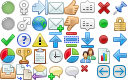
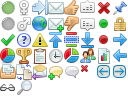
! A little rejig and we can show from the message index what topics are being watched - and also begin to introduce this terminology properly.

diff --git a/Themes/default/css/index.css b/Themes/default/css/index.css
@@ -3101,6 +3101,12 @@ tr.windowbg td, tr.windowbg2 td, tr.highlight2 td {
 .generic_icons.split_sel {
 	background-position: -112px -64px;
 }
+.generic_icons.watch {
+	background-position: 0px -80px;
+}
+.generic_icons.filter {
+	background-position: -16px -80px;
+}
 
 /* Styles for (fatal) errors.
 ------------------------------------------------- */

diff --git a/Sources/MessageIndex.php b/Sources/MessageIndex.php
@@ -45,6 +45,18 @@ function MessageIndex()
 	else
 		loadTemplate('MessageIndex');
 
+	if (!$user_info['is_guest'])
+	{
+		// We can't know they read it if we allow prefetches.
+		// But we'll actually mark it read later after we've done everything else.
+		if (isset($_SERVER['HTTP_X_MOZ']) && $_SERVER['HTTP_X_MOZ'] == 'prefetch')
+		{
+			ob_end_clean();
+			header('HTTP/1.1 403 Prefetch Forbidden');
+			die;
+		}
+	}
+
 	$context['name'] = $board_info['name'];
 	$context['description'] = $board_info['description'];
 	if (!empty($board_info['description']))
@@ -138,82 +150,6 @@ function MessageIndex()
 	{
 	 	$context['linktree'][count($context['linktree']) - 1]['extra_after'] = '<span class="board_moderators">(' . (count($context['link_moderators']) == 1 ? $txt['moderator'] : $txt['moderators']) . ': ' . implode(', ', $context['link_moderators']) . ')</span>';
 	}
-
-	// Mark current and parent boards as seen.
-	if (!$user_info['is_guest'])
-	{
-		// We can't know they read it if we allow prefetches.
-		if (isset($_SERVER['HTTP_X_MOZ']) && $_SERVER['HTTP_X_MOZ'] == 'prefetch')
-		{
-			ob_end_clean();
-			header('HTTP/1.1 403 Prefetch Forbidden');
-			die;
-		}
-
-		$smcFunc['db_insert']('replace',
-			'{db_prefix}log_boards',
-			array('id_msg' => 'int', 'id_member' => 'int', 'id_board' => 'int'),
-			array($modSettings['maxMsgID'], $user_info['id'], $board),
-			array('id_member', 'id_board')
-		);
-
-		if (!empty($board_info['parent_boards']))
-		{
-			$smcFunc['db_query']('', '
-				UPDATE {db_prefix}log_boards
-				SET id_msg = {int:id_msg}
-				WHERE id_member = {int:current_member}
-					AND id_board IN ({array_int:board_list})',
-				array(
-					'current_member' => $user_info['id'],
-					'board_list' => array_keys($board_info['parent_boards']),
-					'id_msg' => $modSettings['maxMsgID'],
-				)
-			);
-
-			// We've seen all these boards now!
-			foreach ($board_info['parent_boards'] as $k => $dummy)
-				if (isset($_SESSION['topicseen_cache'][$k]))
-					unset($_SESSION['topicseen_cache'][$k]);
-		}
-
-		if (isset($_SESSION['topicseen_cache'][$board]))
-			unset($_SESSION['topicseen_cache'][$board]);
-
-		$request = $smcFunc['db_query']('', '
-			SELECT sent
-			FROM {db_prefix}log_notify
-			WHERE id_board = {int:current_board}
-				AND id_member = {int:current_member}
-			LIMIT 1',
-			array(
-				'current_board' => $board,
-				'current_member' => $user_info['id'],
-			)
-		);
-		$context['is_marked_notify'] = $smcFunc['db_num_rows']($request) != 0;
-		if ($context['is_marked_notify'])
-		{
-			list ($sent) = $smcFunc['db_fetch_row']($request);
-			if (!empty($sent))
-			{
-				$smcFunc['db_query']('', '
-					UPDATE {db_prefix}log_notify
-					SET sent = {int:is_sent}
-					WHERE id_board = {int:current_board}
-						AND id_member = {int:current_member}',
-					array(
-						'current_board' => $board,
-						'current_member' => $user_info['id'],
-						'is_sent' => 0,
-					)
-				);
-			}
-		}
-		$smcFunc['db_free_result']($request);
-	}
-	else
-		$context['is_marked_notify'] = false;
 
 	// 'Print' the header and board info.
 	$context['page_title'] = strip_tags($board_info['name']);
@@ -549,6 +485,7 @@ function MessageIndex()
 				'is_redirect' => !empty($row['id_redirect_topic']),
 				'is_poll' => $modSettings['pollMode'] == '1' && $row['id_poll'] > 0,
 				'is_posted_in' => false,
+				'is_watched' => false,
 				'icon' => $row['first_icon'],
 				'icon_url' => $settings[$context['icon_sources'][$row['first_icon']]] . '/post/' . $row['first_icon'] . '.png',
 				'subject' => $row['first_subject'],
@@ -658,6 +595,82 @@ function MessageIndex()
 		call_integration_hook('integrate_quick_mod_actions');
 	}
 
+	// Mark current and parent boards as seen.
+	if (!$user_info['is_guest'])
+	{
+		$smcFunc['db_insert']('replace',
+			'{db_prefix}log_boards',
+			array('id_msg' => 'int', 'id_member' => 'int', 'id_board' => 'int'),
+			array($modSettings['maxMsgID'], $user_info['id'], $board),
+			array('id_member', 'id_board')
+		);
+
+		if (!empty($board_info['parent_boards']))
+		{
+			$smcFunc['db_query']('', '
+				UPDATE {db_prefix}log_boards
+				SET id_msg = {int:id_msg}
+				WHERE id_member = {int:current_member}
+					AND id_board IN ({array_int:board_list})',
+				array(
+					'current_member' => $user_info['id'],
+					'board_list' => array_keys($board_info['parent_boards']),
+					'id_msg' => $modSettings['maxMsgID'],
+				)
+			);
+
+			// We've seen all these boards now!
+			foreach ($board_info['parent_boards'] as $k => $dummy)
+				if (isset($_SESSION['topicseen_cache'][$k]))
+					unset($_SESSION['topicseen_cache'][$k]);
+		}
+
+		if (isset($_SESSION['topicseen_cache'][$board]))
+			unset($_SESSION['topicseen_cache'][$board]);
+
+		$request = $smcFunc['db_query']('', '
+			SELECT id_topic, id_board, sent
+			FROM {db_prefix}log_notify
+			WHERE id_member = {int:current_member}
+				AND (' . (!empty($context['topics']) ? 'id_topic IN ({array_int:topics}) OR ' : '') . 'id_board = {int:current_board})',
+			array(
+				'current_board' => $board,
+				'topics' => !empty($context['topics']) ? array_keys($context['topics']) : array(),
+				'current_member' => $user_info['id'],
+			)
+		);
+		$context['is_marked_notify'] = false; // this is for the *board* only
+		$notify = array();
+		while ($row = $smcFunc['db_fetch_assoc']($request))
+		{
+			if (!empty($row['id_board']))
+			{
+				$context['is_marked_notify'] = true;
+				$board_sent = $row['sent'];
+			}
+			if (!empty($row['id_topic']))
+				$context['topics'][$row['id_topic']]['is_watched'] = true;
+		}
+		$smcFunc['db_free_result']($request);
+
+		if ($context['is_marked_notify'] && !empty($board_sent))
+		{
+			$smcFunc['db_query']('', '
+				UPDATE {db_prefix}log_notify
+				SET sent = {int:is_sent}
+				WHERE id_member = {int:current_member}
+					AND id_board = {int:current_board}',
+				array(
+					'current_board' => $board,
+					'current_member' => $user_info['id'],
+					'is_sent' => 0,
+				)
+			);
+		}
+	}
+	else
+		$context['is_marked_notify'] = false;
+
 	// If there are children, but no topics and no ability to post topics...
 	$context['no_topic_listing'] = !empty($context['boards']) && empty($context['topics']) && !$context['can_post_new'];
 
@@ -665,7 +678,7 @@ function MessageIndex()
 	$context['normal_buttons'] = array(
 		'new_topic' => array('test' => 'can_post_new', 'text' => 'new_topic', 'image' => 'new_topic.png', 'lang' => true, 'url' => $scripturl . '?action=post;board=' . $context['current_board'] . '.0', 'active' => true),
 		'post_poll' => array('test' => 'can_post_poll', 'text' => 'new_poll', 'image' => 'new_poll.png', 'lang' => true, 'url' => $scripturl . '?action=post;board=' . $context['current_board'] . '.0;poll'),
-		'notify' => array('test' => 'can_mark_notify', 'text' => $context['is_marked_notify'] ? 'unnotify' : 'notify', 'image' => ($context['is_marked_notify'] ? 'un' : ''). 'notify.png', 'lang' => true, 'custom' => 'onclick="return confirm(\'' . ($context['is_marked_notify'] ? $txt['notification_disable_board'] : $txt['notification_enable_board']) . '\');"', 'url' => $scripturl . '?action=notifyboard;sa=' . ($context['is_marked_notify'] ? 'off' : 'on') . ';board=' . $context['current_board'] . '.' . $context['start'] . ';' . $context['session_var'] . '=' . $context['session_id']),
+		'notify' => array('test' => 'can_mark_notify', 'text' => $context['is_marked_notify'] ? 'unwatch_board' : 'watch_board', 'image' => ($context['is_marked_notify'] ? 'un' : ''). 'notify.png', 'lang' => true, 'custom' => 'onclick="return confirm(\'' . ($context['is_marked_notify'] ? $txt['notification_disable_board'] : $txt['notification_enable_board']) . '\');"', 'url' => $scripturl . '?action=notifyboard;sa=' . ($context['is_marked_notify'] ? 'off' : 'on') . ';board=' . $context['current_board'] . '.' . $context['start'] . ';' . $context['session_var'] . '=' . $context['session_id']),
 		'markread' => array('text' => 'mark_read_short', 'image' => 'markread.png', 'lang' => true, 'custom' => 'onclick="return confirm(\'' . $txt['are_sure_mark_read'] . '\');"', 'url' => $scripturl . '?action=markasread;sa=board;board=' . $context['current_board'] . '.0;' . $context['session_var'] . '=' . $context['session_id']),
 	);
 

diff --git a/Sources/Display.php b/Sources/Display.php
@@ -1178,7 +1178,7 @@ function Display()
 	$context['normal_buttons'] = array(
 		'reply' => array('test' => 'can_reply', 'text' => 'reply', 'image' => 'reply.png', 'lang' => true, 'url' => $scripturl . '?action=post;topic=' . $context['current_topic'] . '.' . $context['start'] . ';last_msg=' . $context['topic_last_message'], 'active' => true),
 		'add_poll' => array('test' => 'can_add_poll', 'text' => 'add_poll', 'image' => 'add_poll.png', 'lang' => true, 'url' => $scripturl . '?action=editpoll;add;topic=' . $context['current_topic'] . '.' . $context['start']),
-		'notify' => array('test' => 'can_mark_notify', 'text' => $context['is_marked_notify'] ? 'unnotify' : 'notify', 'image' => ($context['is_marked_notify'] ? 'un' : '') . 'notify.png', 'lang' => true, 'custom' => 'onclick="return confirm(\'' . ($context['is_marked_notify'] ? $txt['notification_disable_topic'] : $txt['notification_enable_topic']) . '\');"', 'url' => $scripturl . '?action=notify;sa=' . ($context['is_marked_notify'] ? 'off' : 'on') . ';topic=' . $context['current_topic'] . '.' . $context['start'] . ';' . $context['session_var'] . '=' . $context['session_id']),
+		'notify' => array('test' => 'can_mark_notify', 'text' => $context['is_marked_notify'] ? 'unwatch_topic' : 'watch_topic', 'image' => ($context['is_marked_notify'] ? 'un' : '') . 'notify.png', 'lang' => true, 'custom' => 'onclick="return confirm(\'' . ($context['is_marked_notify'] ? $txt['notification_disable_topic'] : $txt['notification_enable_topic']) . '\');"', 'url' => $scripturl . '?action=notify;sa=' . ($context['is_marked_notify'] ? 'off' : 'on') . ';topic=' . $context['current_topic'] . '.' . $context['start'] . ';' . $context['session_var'] . '=' . $context['session_id']),
 		'mark_unread' => array('test' => 'can_mark_unread', 'text' => 'mark_unread', 'image' => 'markunread.png', 'lang' => true, 'url' => $scripturl . '?action=markasread;sa=topic;t=' . $context['mark_unread_time'] . ';topic=' . $context['current_topic'] . '.' . $context['start'] . ';' . $context['session_var'] . '=' . $context['session_id']),
 		'unwatch' => array('test' => 'can_unwatch', 'text' => ($context['topic_unwatched'] ? '' : 'un') . 'watch', 'image' => ($context['topic_unwatched'] ? 'un' : '') . 'watch.png', 'lang' => true, 'url' => $scripturl . '?action=unwatchtopic;topic=' . $context['current_topic'] . '.' . $context['start'] . ';sa=' . ($context['topic_unwatched'] ? 'off' : 'on') . ';' . $context['session_var'] . '=' . $context['session_id']),
 		'print' => array('test' => 'can_print', 'text' => 'print', 'image' => 'print.png', 'lang' => true, 'custom' => 'rel="nofollow"', 'url' => $scripturl . '?action=printpage;topic=' . $context['current_topic'] . '.0'),

diff --git a/Themes/default/languages/index.english.php b/Themes/default/languages/index.english.php
@@ -123,6 +123,11 @@ $txt['admin_login'] = 'Administration Login';
 $txt['topic'] = 'Topic';
 $txt['help'] = 'Help';
 $txt['terms_and_rules'] = 'Terms and Rules';
+$txt['watch_board'] = 'Watch this Board';
+$txt['unwatch_board'] = 'Stop Watching Board';
+$txt['watch_topic'] = 'Watch this Topic';
+$txt['unwatch_topic'] = 'Stop Watching Topic';
+$txt['watching_this_topic'] = 'You are watching this topic, and will receive notifications about it.';
 $txt['notify'] = 'Notify';
 $txt['unnotify'] = 'Unnotify';
 $txt['notify_request'] = 'Do you want a notification email if someone replies to this topic?';

diff --git a/Themes/default/MessageIndex.template.php b/Themes/default/MessageIndex.template.php
@@ -250,6 +250,9 @@ function template_main()
 			// Now we handle the icons
 			echo '
 							<div class="icons">';
+			if ($topic['is_watched'])
+				echo '
+								<span class="generic_icons watch floatright" title="', $txt['watching_this_topic'], '"></span>';
 			if ($topic['is_locked'])
 				echo '
 								<span class="generic_icons lock floatright"></span>';
